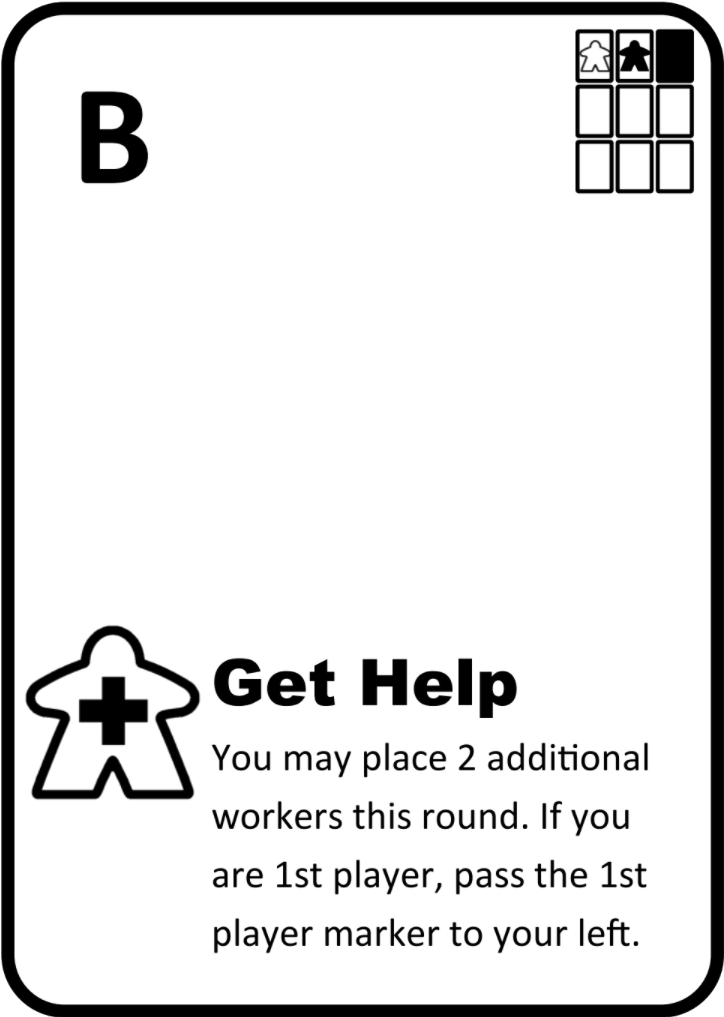
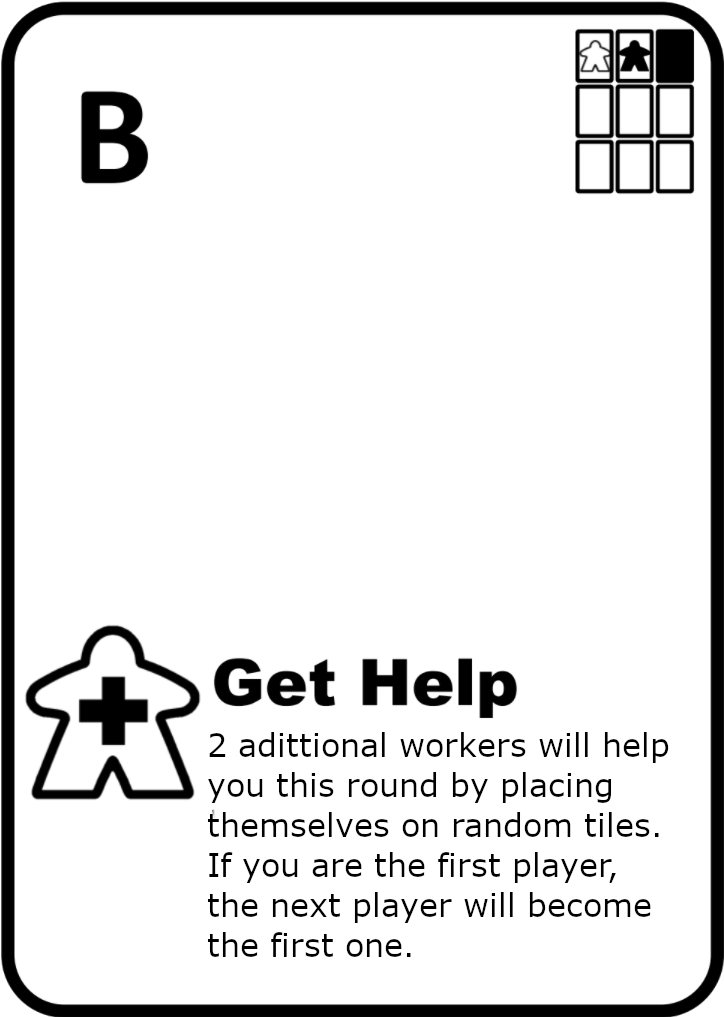
Added new getHelp cards and HoldACouncilTests updated

Changed region(s): [[0.2735, 0.7011, 0.9116, 0.9449]]

diff --git a/src/test/java/org/springframework/dwarf/specialCardStrategies/HoldACouncilTests.java b/src/test/java/org/springframework/dwarf/specialCardStrategies/HoldACouncilTests.java
@@ -17,6 +17,7 @@ import org.springframework.dwarf.card.StrategyName;
 import org.springframework.dwarf.game.Game;
 import org.springframework.dwarf.game.GameService;
 import org.springframework.dwarf.mountain_card.MountainCard;
+import org.springframework.dwarf.mountain_card.MountainCardService;
 import org.springframework.dwarf.mountain_card.MountainDeck;
 import org.springframework.dwarf.player.Player;
 import org.springframework.dwarf.player.PlayerService;
@@ -45,48 +46,30 @@ public class HoldACouncilTests {
 
    @Autowired
    private BoardService boardService;
+
+   @Autowired
+   private MountainCardService mountainCardService;
    
    
    private Player p1;
-   private Player p2;
-   private Player p3;
-   private Resources playerResources;
    private Game game;
    private Board board;
-   private Board board2;
-   //private Board board3;
 
    @BeforeEach
    void setup() throws Exception {
 
        game = gameService.findByGameId(2).get();
        
-       p1 = playerService.findPlayerById(6);
-       p2 = playerService.findPlayerById(5);
-       p3 = playerService.findPlayerById(2);
+       p1 = playerService.findPlayerById(2);
        
-       board = boardService.findByBoardId(2).get();
-   
-       playerResources = new Resources(game, p1);
-       playerResources.addResource(ResourceType.GOLD, 2);
-       resourcesService.saveResources(playerResources);
-       
-       Resources playerResources2 = new Resources(game, p2);
-       playerResources.addResource(ResourceType.GOLD, 2);
-       resourcesService.saveResources(playerResources2);
-       
-       Resources playerResources3 = new Resources(game, p3);
-       playerResources.addResource(ResourceType.GOLD, 2);
-       resourcesService.saveResources(playerResources3);
-
-       List<BoardCell> boardCells = new ArrayList<>();
-       MountainDeck mountainDeck = new MountainDeck();
-       Game game = new Game();
-       List<SpecialDeck> specialDecks = new ArrayList<>();
-
-       board2 = new Board(boardCells, mountainDeck, game, specialDecks);
-
-      // board3 = boardService.createBoard(game);
+       board = boardService.createBoard(game);
+       List<MountainCard> listacartas = new ArrayList<MountainCard>();
+       listacartas.add(mountainCardService.findByMountainCardId(1).get());
+       listacartas.add(mountainCardService.findByMountainCardId(10).get());
+       for(BoardCell c : board.getBoardCells()) {
+           c.setMountaincards(listacartas);
+       }
+       //board.getBoardCell(1, 0).setMountaincards(listacartas);
 
    }
 
@@ -101,15 +84,21 @@ public class HoldACouncilTests {
     @Test
     void testRemoveTopCards() throws Exception {
 
+	
+		List<BoardCell> boardCell1 = board.getBoardCells();
+        
         List<MountainCard> removedCardsList = hac.removeTopCards(game, board);
+        
         assertThat(!(removedCardsList.isEmpty()));
+        List<BoardCell> boardCell2 = board.getBoardCells();
+        assertThat(boardCell1!=boardCell2);
+        
 
-        removedCardsList = hac.removeTopCards(game, board2);
+        removedCardsList = hac.removeTopCards(game, board);
+
         assertThat((removedCardsList.isEmpty()));
-
-        //removedCardsList = hac.removeTopCards(game, board3);
-        //assertThat((removedCardsList.isEmpty()));
-
+        List<BoardCell> boardCell3 = board.getBoardCells();
+        assertThat(boardCell2!=boardCell3);
 
        }
 
@@ -117,12 +106,20 @@ public class HoldACouncilTests {
        @Test
        @WithMockUser(username = "test") 
        void testActions() throws Exception {
-        Game currentGame = gameService.findPlayerUnfinishedGames(p1).get();
-		Board currentBoard = gameService.findBoardByGameId(currentGame.getId()).get();		
-		MountainDeck oldMountainDeck = currentBoard.getMountainDeck();        
+
+        MountainDeck mountainDeck1 = board.getMountainDeck();     
+        
         hac.actions(p1, "");
-        MountainDeck newMountainDeck = currentBoard.getMountainDeck();  
-        assertThat(newMountainDeck!=oldMountainDeck);
+
+        MountainDeck mountainDeck2 = board.getMountainDeck();
+        assertThat(mountainDeck1!=mountainDeck2);
+        
+
+        hac.actions(p1, "");
+
+
+        MountainDeck mountainDeck3 = board.getMountainDeck();
+        assertThat(mountainDeck2!=mountainDeck3);
 
           }
     
